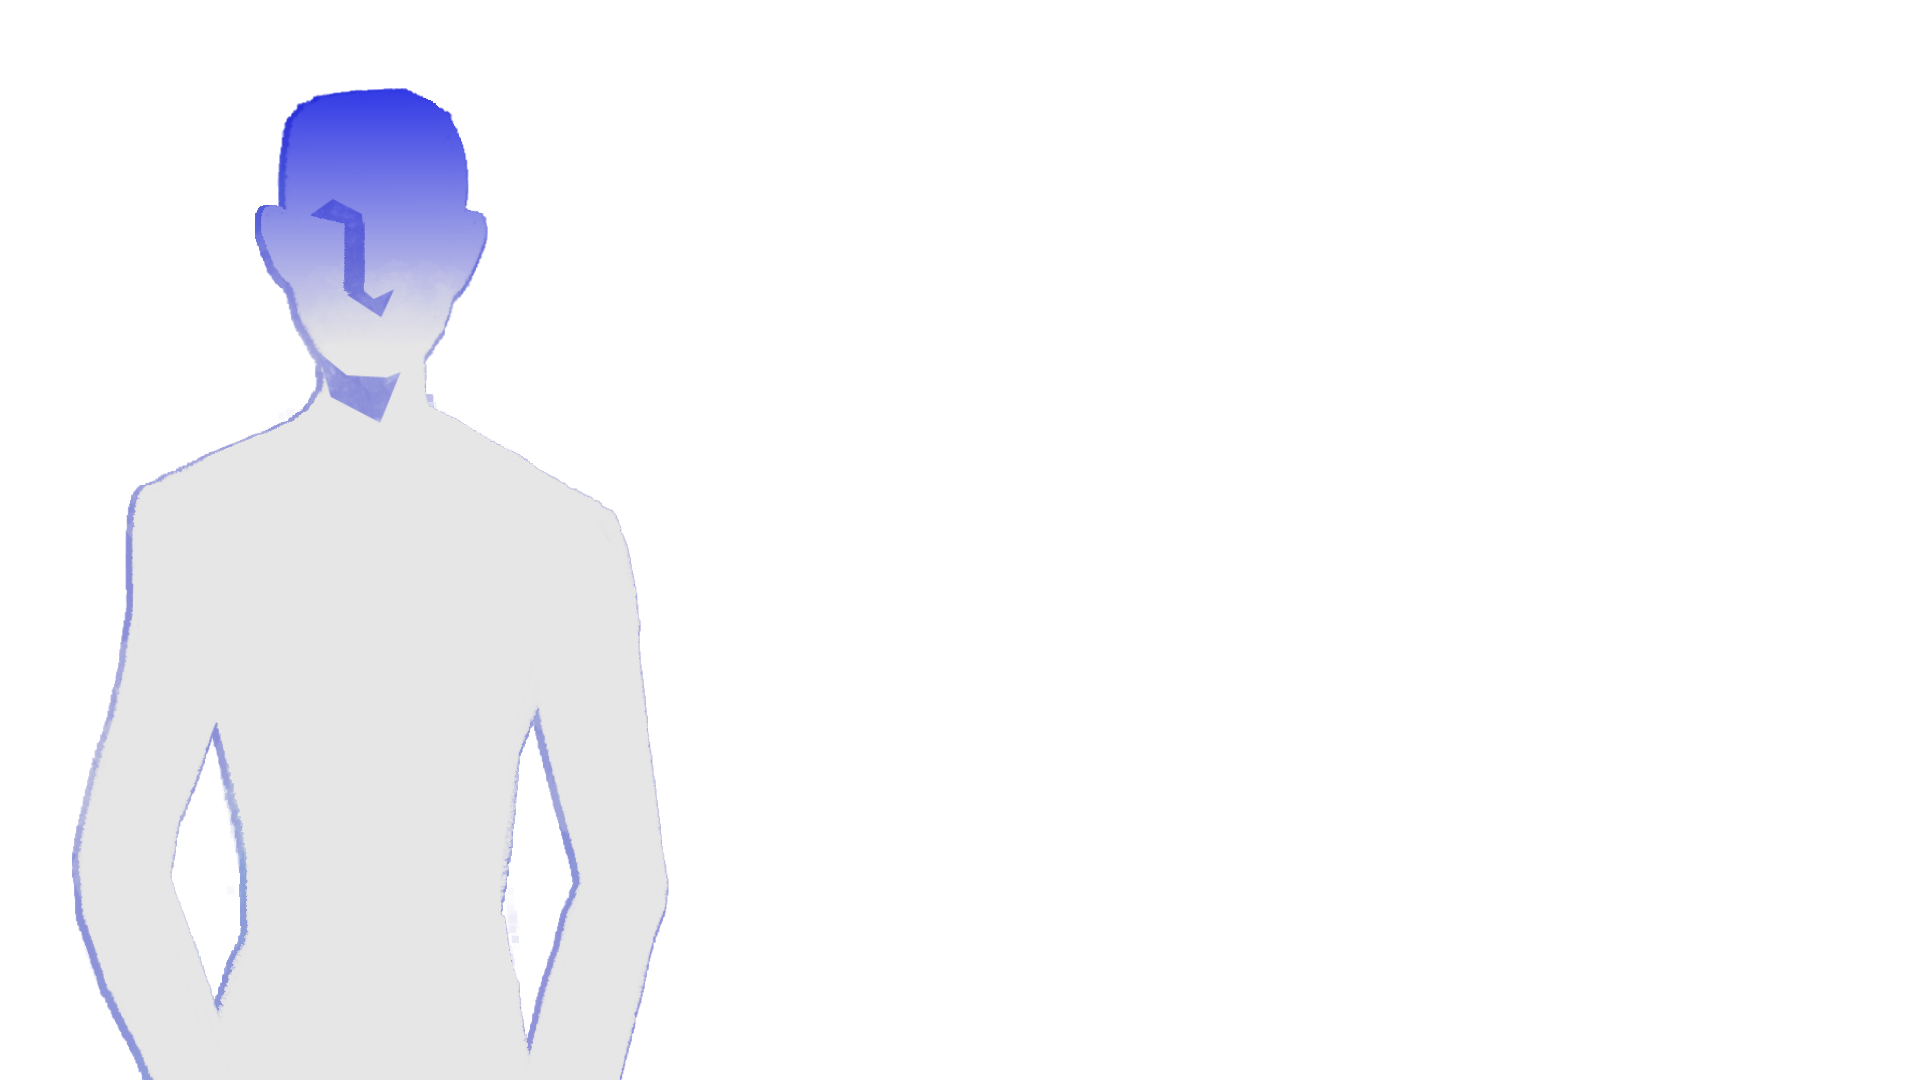
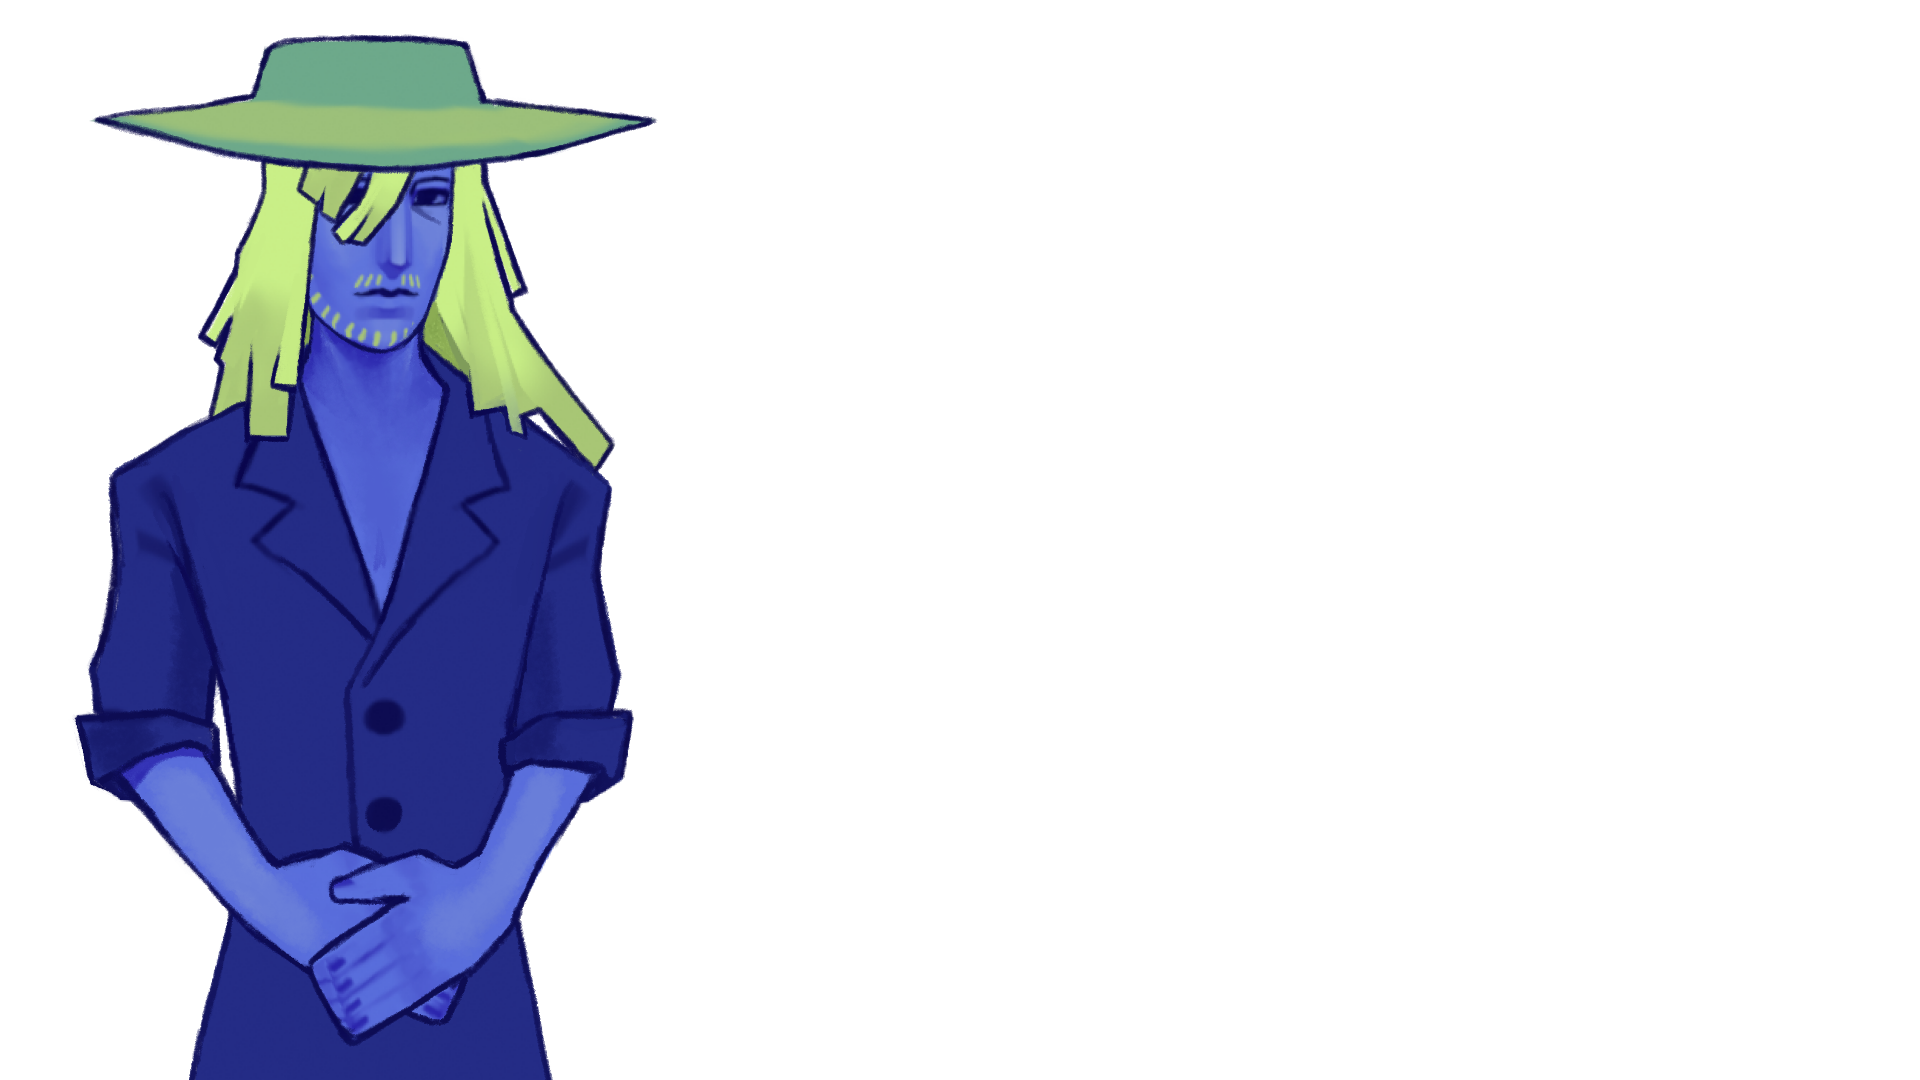
fix npc sprites

Changed region(s): [[0.0312, 0.0306, 0.375, 1.0]]

diff --git a/ApplyYourself/Assets/Scripts/State/FSM.cs b/ApplyYourself/Assets/Scripts/State/FSM.cs
@@ -59,7 +59,7 @@ namespace ApplyYourself
             if (current == null)
                 return;
 
-            Debug.Log($"{state.gameObject.name}_{state.GetType().Name}");
+            Debug.Log($"{state.gameObject.name} --> {state.GetType().Name}");
             current.Enter();
         }
 
